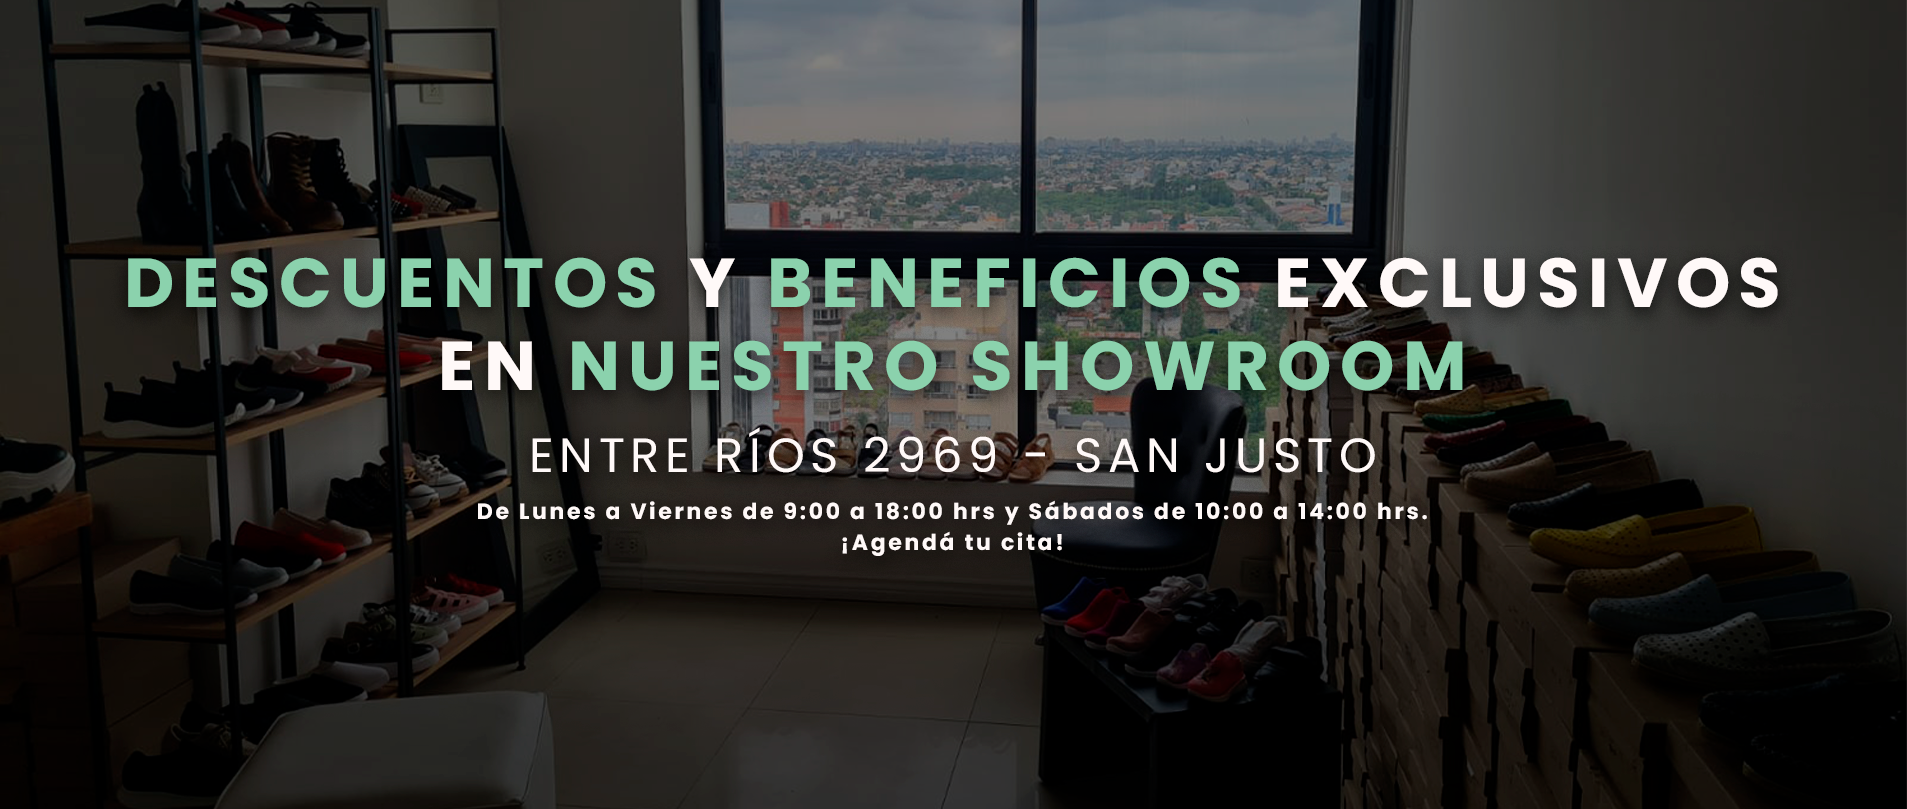
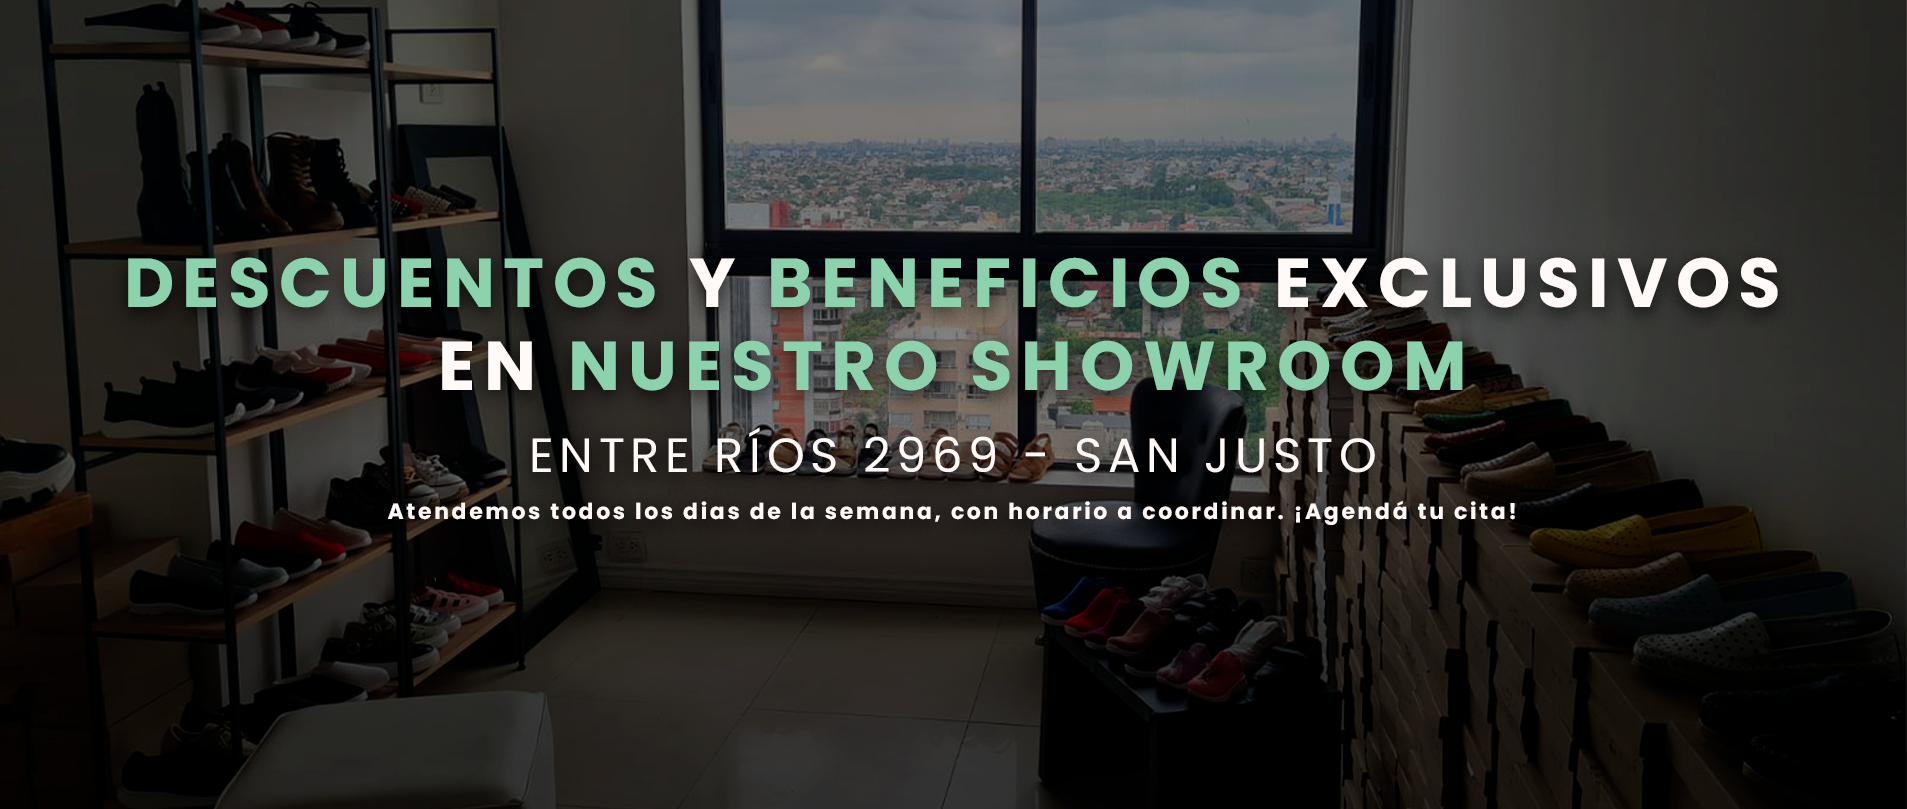
last fixes

Changed region(s): [[0.1856, 0.618, 0.8044, 0.6799]]

diff --git a/medusajs-storefront/src/modules/home/components/collections/index.tsx b/medusajs-storefront/src/modules/home/components/collections/index.tsx
@@ -1,22 +1,29 @@
-"use client";
+"use client"
 
-import React from "react";
-import { motion } from "framer-motion";
-import { BlurFade } from "@modules/magic-ui/Blur-fade";
+import React from "react"
+import { motion } from "framer-motion"
+import { BlurFade } from "@modules/magic-ui/Blur-fade"
 
-import CalzadosDeTela from "../../../../images/colecciones/CalzadosDeTela.png";
-import CalzadosDeCuero from "../../../../images/colecciones/CalzadosDeCuero.png";
-import CalzadosDeInvierno from "../../../../images/colecciones/CalzadosDeInvierno.png";
-import CalzadosDeNinos from "../../../../images/colecciones/CalzadosDeNinos.png";
-import SandaliasEcoCuero from "../../../../images/colecciones/SandaliasEcoCuero.png";
-import Zapatillas from "../../../../images/colecciones/Zapatillas.png";
-import UltimosPares from "../../../../images/colecciones/UltimosPares.png";
-import Remerones from "../../../../images/colecciones/Remerones.png";
-import Buzos from "../../../../images/colecciones/Buzos.png";
+import CalzadosDeTela from "../../../../images/colecciones/CalzadosDeTela.png"
+import CalzadosDeCuero from "../../../../images/colecciones/CalzadosDeCuero.png"
+import CalzadosDeInvierno from "../../../../images/colecciones/CalzadosDeInvierno.png"
+import CalzadosDeNinos from "../../../../images/colecciones/CalzadosDeNinos.png"
+import SandaliasEcoCuero from "../../../../images/colecciones/SandaliasEcoCuero.png"
+import Zapatillas from "../../../../images/colecciones/Zapatillas.png"
+import UltimosPares from "../../../../images/colecciones/UltimosPares.png"
+import Remerones from "../../../../images/colecciones/Remerones.png"
+import Buzos from "../../../../images/colecciones/Buzos.png"
+import BuzosOversize from "../../../../images/colecciones/BuzosOversize.png"
+import BuzosPeluche from "../../../../images/colecciones/BuzosPeluche.png"
+import SacosDeLana from "../../../../images/colecciones/SacosDeLana.png"
+import SaconesDeLana from "../../../../images/colecciones/SaconesDeLana.png"
 
 function Index() {
   return (
-    <div id="colecciones" className="grid grid-cols-2 lg:grid-cols-5 gap-4 lg:gap-12 content-container py-12">
+    <div
+      id="colecciones"
+      className="grid grid-cols-2 lg:grid-cols-5 gap-4 lg:gap-12 content-container py-12"
+    >
       <a href="/collections/tela">
         <motion.div
           whileHover={{
@@ -179,7 +186,7 @@ function Index() {
             className="absolute bottom-0 left-0 right-0 flex flex-col items-center justify-center text-center w-full"
           >
             <p className="px-2 py-3 font-extrabold text-lg lg:text-xl text-center text-white mt-3 rounded-md uppercase w-full">
-            Zapatillas
+              Zapatillas
             </p>
           </BlurFade>
         </motion.div>
@@ -268,8 +275,92 @@ function Index() {
           </BlurFade>
         </motion.div>
       </a>
+
+      <a href="/collections/buzos-oversize">
+        <motion.div
+          whileHover={{
+            scale: 1.02,
+            translateY: -5,
+            boxShadow: "0px 8px 15px rgba(0, 0, 0, 0.1)",
+          }}
+          transition={{ type: "spring", stiffness: 200, damping: 10 }}
+          className="relative flex flex-col items-center justify-center"
+        >
+          <div className="relative flex flex-row items-center justify-center h-72 lg:h-96 w-full border bg-aca-beige border-neutral-200 rounded-md">
+            <img
+              src={BuzosOversize.src}
+              alt=""
+              className="object-cover w-full h-72 lg:h-96 select-none rounded-md"
+            />
+          </div>
+          <BlurFade
+            delay={0.5}
+            className="absolute bottom-0 left-0 right-0 flex flex-col items-center justify-center text-center w-full"
+          >
+            <p className="px-2 py-3 font-extrabold text-lg lg:text-xl text-center text-white mt-3 rounded-md uppercase w-full">
+              Buzos Oversize
+            </p>
+          </BlurFade>
+        </motion.div>
+      </a>
+
+      <a href="/collections/buzos-peluche">
+        <motion.div
+          whileHover={{
+            scale: 1.02,
+            translateY: -5,
+            boxShadow: "0px 8px 15px rgba(0, 0, 0, 0.1)",
+          }}
+          transition={{ type: "spring", stiffness: 200, damping: 10 }}
+          className="relative flex flex-col items-center justify-center"
+        >
+          <div className="relative flex flex-row items-center justify-center h-72 lg:h-96 w-full border bg-aca-beige border-neutral-200 rounded-md">
+            <img
+              src={BuzosPeluche.src}
+              alt=""
+              className="object-cover w-full h-72 lg:h-96 select-none rounded-md"
+            />
+          </div>
+          <BlurFade
+            delay={0.5}
+            className="absolute bottom-0 left-0 right-0 flex flex-col items-center justify-center text-center w-full"
+          >
+            <p className="px-2 py-3 font-extrabold text-lg lg:text-xl text-center text-white mt-3 rounded-md uppercase w-full">
+              Buzos Peluche
+            </p>
+          </BlurFade>
+        </motion.div>
+      </a>
+
+      <a href="/collections/sacos-de-lana">
+        <motion.div
+          whileHover={{
+            scale: 1.02,
+            translateY: -5,
+            boxShadow: "0px 8px 15px rgba(0, 0, 0, 0.1)",
+          }}
+          transition={{ type: "spring", stiffness: 200, damping: 10 }}
+          className="relative flex flex-col items-center justify-center"
+        >
+          <div className="relative flex flex-row items-center justify-center h-72 lg:h-96 w-full border bg-aca-beige border-neutral-200 rounded-md">
+            <img
+              src={SacosDeLana.src}
+              alt=""
+              className="object-cover w-full h-72 lg:h-96 select-none rounded-md"
+            />
+          </div>
+          <BlurFade
+            delay={0.5}
+            className="absolute bottom-0 left-0 right-0 flex flex-col items-center justify-center text-center w-full"
+          >
+            <p className="px-2 py-3 font-extrabold text-lg lg:text-xl text-center text-white mt-3 rounded-md uppercase w-full">
+              Sacos De Lana
+            </p>
+          </BlurFade>
+        </motion.div>
+      </a>
     </div>
-  );
+  )
 }
 
-export default Index;
+export default Index

diff --git a/medusajs-storefront/src/modules/store/components/filters/index.tsx b/medusajs-storefront/src/modules/store/components/filters/index.tsx
@@ -332,6 +332,78 @@ export default function Example() {
             },
           ],
         },
+        {
+          value: "Buzos Oversize",
+          label: "Buzos Oversize",
+          href: "",
+          subOptions: [
+            { label: "Ver Todo", href: "/collections/buzos-oversize" },
+            {
+              label: "Maxibuzo Ovesize con capucha Hello Kitty",
+              href: "/products/maxibuzo-ovesize-con-capucha-hello-kitty",
+            },
+            {
+              label: "Maxibuzo Ovesize con capucha Looney Tunes",
+              href: "/products/maxibuzo-ovesize-con-capucha-looney-tunes",
+            },
+            {
+              label: "Maxibuzo Ovesize con capucha Mickey Mouse",
+              href: "/products/maxibuzo-ovesize-con-capucha-mickey-mouse",
+            },
+            {
+              label: "Maxibuzo Ovesize con capucha Mickey Mouse Blanco",
+              href: "/products/maxibuzo-ovesize-con-capucha-mickey-mouse-blanco",
+            },
+            {
+              label: "Maxibuzo Ovesize con capucha Mickey Mouse Retro",
+              href: "/products/maxibuzo-ovesize-con-capucha-mickey-mouse-retro",
+            },
+            {
+              label: "Maxibuzo Ovesize con capucha Mickey Mouse Rojo",
+              href: "/products/maxibuzo-ovesize-con-capucha-mickey-mouse-rojo",
+            },
+            {
+              label: "Maxibuzo Ovesize con capucha Minnie y Daisy",
+              href: "/products/maxibuzo-ovesize-con-capucha-minnie-y-daisy",
+            },
+            {
+              label: "Maxibuzo Ovesize con capucha Monsters Inc",
+              href: "/products/maxibuzo-ovesize-con-capucha-monsters-inc",
+            },
+            {
+              label: "Maxibuzo Ovesize con capucha Rugrats",
+              href: "/products/maxibuzo-ovesize-con-capucha-rugrats",
+            },
+            {
+              label: "Maxibuzo Ovesize con capucha Stitch",
+              href: "/products/maxibuzo-ovesize-con-capucha-stitch",
+            },
+          ],
+        },
+        {
+          value: "Buzos Peluche",
+          label: "Buzos Peluche",
+          href: "",
+          subOptions: [
+            { label: "Ver Todo", href: "/collections/buzos-peluche" },
+          ],
+        },
+        {
+          value: "Sacos de Lana",
+          label: "Sacos de Lana",
+          href: "",
+          subOptions: [
+            { label: "Ver Todo", href: "/collections/sacos-de-lana" },
+            {
+              label: "Sacos de Lana",
+              href: "/products/sacos-de-lana",
+            },
+            {
+              label: "Sacon de Lana",
+              href: "/products/sacon-de-lana",
+            },
+          ],
+        },
       ],
     },
     {

diff --git a/medusajs-storefront/src/app/[countryCode]/(main)/page.tsx b/medusajs-storefront/src/app/[countryCode]/(main)/page.tsx
@@ -73,7 +73,7 @@ export default async function Home({
   }
 
   const bestSellingCollection = collections.find(
-    (collection) => collection.handle === "mas-vendidos"
+    (collection) => collection.handle === "en-liquidacion"
   )
 
   const OffersCollection = collections.find(
@@ -96,14 +96,14 @@ export default async function Home({
             />
           )}
         </ul>
-        <ul className="flex flex-col gap-x-6">
+        {/* <ul className="flex flex-col gap-x-6">
           {OffersCollection && (
             <FeaturedProducts
               collections={[OffersCollection]}
               region={region}
             />
           )}
-        </ul>
+        </ul> */}
         <MarketingSpace />
         <SocialNetworks />
         <Collections />

diff --git a/medusajs-storefront/src/modules/layout/templates/nav/index.tsx b/medusajs-storefront/src/modules/layout/templates/nav/index.tsx
@@ -42,6 +42,10 @@ const navigation = {
           items: [
             { name: "Remerones Animados", href: "/collections/remerones-animados" },
             { name: "Buzos Animados", href: "/collections/remerones-animados" },
+            { name: "Buzos Oversize", href: "/collections/remerones-oversize" },
+            { name: "Buzos Peluche", href: "/collections/remerones-peluche" },
+            { name: "Sacos de Lana", href: "/collections/sacos-de-lana" },
+
           ],
         },
         {

diff --git a/medusajs-storefront/src/modules/home/components/showroom-modal/index.tsx b/medusajs-storefront/src/modules/home/components/showroom-modal/index.tsx
@@ -81,8 +81,7 @@ function Index() {
             <strong>Entre Ríos 2969, San Justo</strong>.
           </p>
           <p className="mt-2 text-gray-500">
-            <strong>Horarios de atención:</strong> Lunes a Viernes de 9:00 a
-            18:00 hrs y Sábados de 10:00 a 14:00 hrs.
+            <strong>Horarios de atención:</strong> Todos los dias de la semana, con horario a coordinar.
           </p>
 
           <div className="mt-6 flex flex-row items-center justify-center">
